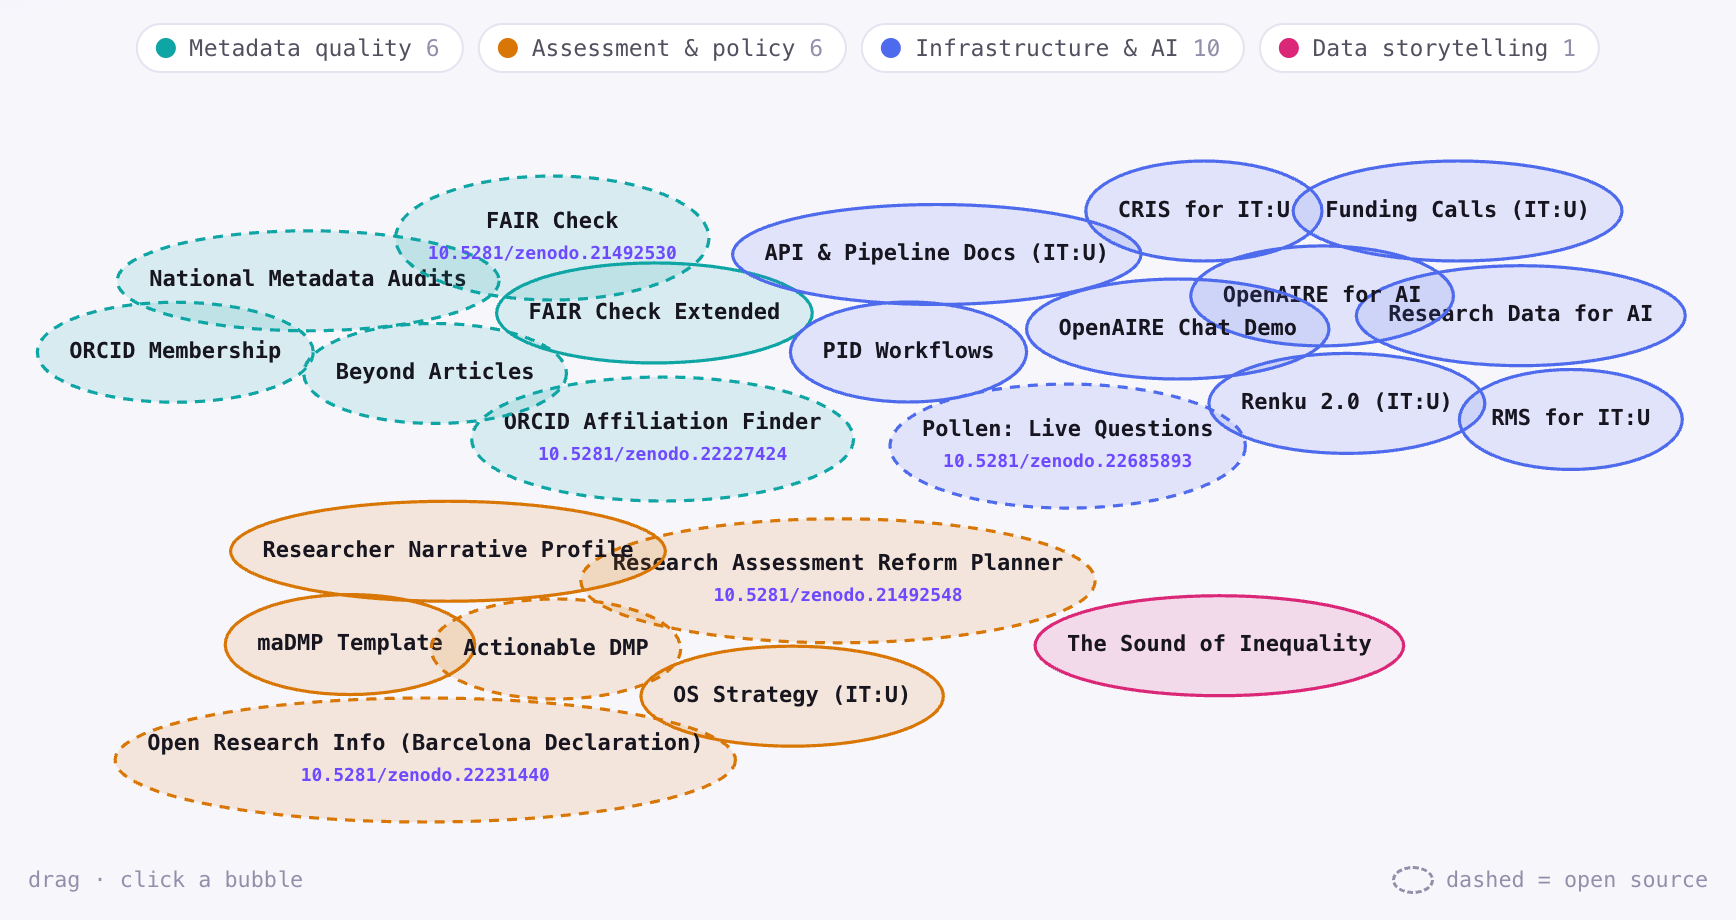
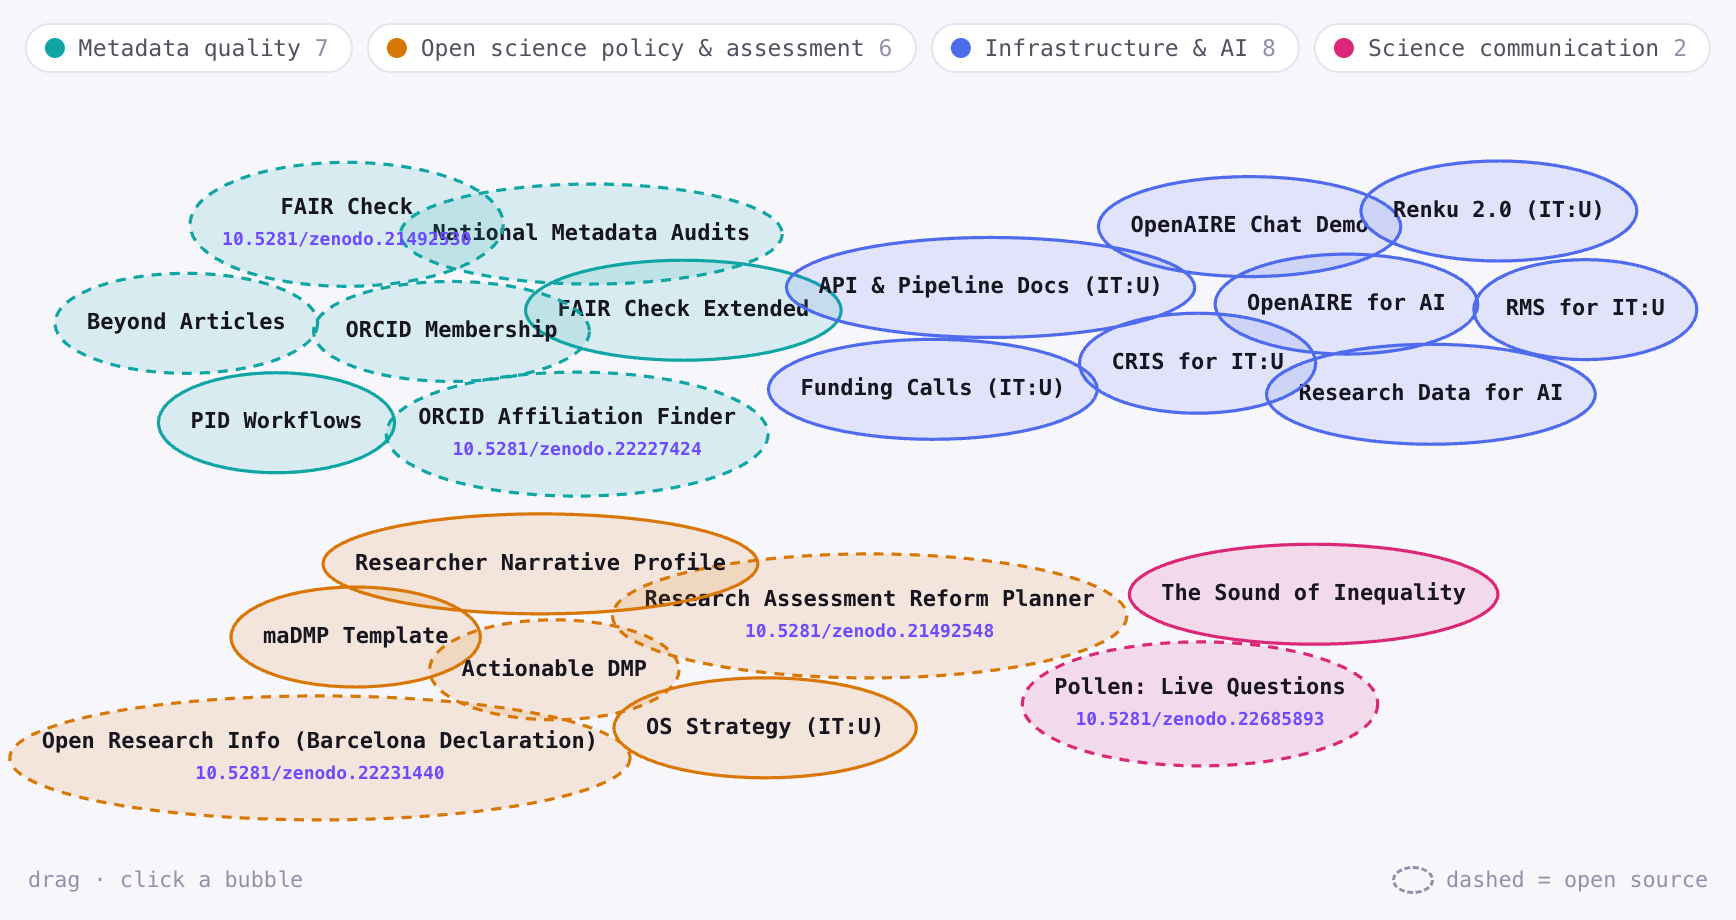
Topics: Open science policy & assessment; Science communication holds Pollen and The Sound of Inequality; PID Workflows under metadata quality. The rail no longer says it is a curated view of the CV data

Changed region(s): [[0.0, 0.1522, 0.9954, 0.913], [0.0311, 0.0304, 0.9643, 0.0609], [0.8088, 0.1522, 0.9021, 0.1826]]

diff --git a/hub.js b/hub.js
@@ -31,26 +31,26 @@ const TAB_GROUPS={
 };
 const TOPICS = {
   metadata:{v:"--t-metadata", en:"Metadata quality", de:"Metadatenqualität", es:"Calidad de metadatos"},
-  assessment:{v:"--t-assessment", en:"Assessment & policy", de:"Bewertung & Forschungspolitik", es:"Evaluación y política"},
+  assessment:{v:"--t-assessment", en:"Open science policy & assessment", de:"Open-Science-Politik & Bewertung", es:"Política de ciencia abierta y evaluación"},
   infra:{v:"--t-infra", en:"Infrastructure & AI", de:"Infrastruktur & KI", es:"Infraestructura e IA"},
-  story:{v:"--t-story", en:"Data storytelling", de:"Daten-Storytelling", es:"Narrativa de datos"},
+  story:{v:"--t-story", en:"Science communication", de:"Wissenschaftskommunikation", es:"Comunicación científica"},
 };
 const UI = {
   en:{nav_menu:"Menu",nav_close:"Close menu",nav_sections:"Sections",cv:"Full CV →", apps_h:"Tools & experiments", apps_lead:"Tools and projects, grouped by topic. Drag them around; click one for its description and, where there is one, its link.",
     grp_out_h:"Publications & talks", grp_path_h:"Background",
     hint:"drag · click a bubble", openmark:"dashed = open source", 
     by:"Built by", lic:"MIT-licensed, open source", src:"Source on GitHub",
-    built:"A curated view of the same data behind the CV", open:"Open", nolink:"No public URL", list:"List", cloud:"Cloud"},
+    open:"Open", nolink:"No public URL", list:"List", cloud:"Cloud"},
   de:{nav_menu:"Menü",nav_close:"Menü schließen",nav_sections:"Abschnitte",cv:"Vollständiger Lebenslauf →", apps_h:"Werkzeuge & Experimente", apps_lead:"Werkzeuge und Projekte, nach Thema gruppiert. Ziehen; anklicken für Beschreibung und, falls vorhanden, Link.",
     grp_out_h:"Publikationen & Vorträge", grp_path_h:"Werdegang",
     hint:"ziehen · Blase anklicken", openmark:"gestrichelt = quelloffen", 
     by:"Erstellt von", lic:"MIT-Lizenz, quelloffen", src:"Quellcode auf GitHub",
-    built:"Eine kuratierte Ansicht derselben CV-Daten", open:"Öffnen", nolink:"Keine öffentliche URL", list:"Liste", cloud:"Wolke"},
+    open:"Öffnen", nolink:"Keine öffentliche URL", list:"Liste", cloud:"Wolke"},
   es:{nav_menu:"Menú",nav_close:"Cerrar menú",nav_sections:"Secciones",cv:"CV completo →", apps_h:"Herramientas y experimentos", apps_lead:"Herramientas y proyectos, agrupados por tema. Arrástralos; haz clic en uno para ver su descripción y, si lo tiene, su enlace.",
     grp_out_h:"Publicaciones y charlas", grp_path_h:"Trayectoria",
     hint:"arrastra · haz clic en una burbuja", openmark:"discontinuo = código abierto", 
     by:"Hecho por", lic:"Licencia MIT, código abierto", src:"Código en GitHub",
-    built:"Una vista curada de los mismos datos del CV", open:"Abrir", nolink:"Sin URL pública", list:"Lista", cloud:"Nube"},
+    open:"Abrir", nolink:"Sin URL pública", list:"Lista", cloud:"Nube"},
 };
 
 let lang="en", activeTopic=null, selected=null, isList=false;

diff --git a/index.html b/index.html
@@ -40,8 +40,7 @@ works only as a response header, and GitHub Pages sends none. -->
     <div class="rail-foot">
       <span data-t="by"></span> <span data-p="name"></span><br>
       <span data-t="lic"></span><br>
-      <a href="https://github.com/rijdho/rijdho.github.io" data-t="src"></a><br>
-      <span data-t="built"></span>
+      <a href="https://github.com/rijdho/rijdho.github.io" data-t="src"></a>
     </div>
   </aside>
   <button class="rail-backdrop" id="rail_backdrop" aria-label="Close menu" tabindex="-1"></button>
@@ -113,4 +112,4 @@ works only as a response header, and GitHub Pages sends none. -->
   </div>
 </div>
 
-<script src="./hub.js?v=16"></script>
+<script src="./hub.js?v=17"></script>

diff --git a/README.md b/README.md
@@ -13,8 +13,8 @@ from this origin.
 Available in **English, German and Spanish** (auto-detected, switchable): interface and
 content both, including every long description.
 
-![The tool cloud: 23 ovals grouped into four colour-coded topics, Metadata quality 6,
-Assessment & policy 6, Infrastructure & AI 10, Data storytelling 1. Related projects touch
+![The tool cloud: 23 ovals grouped into four colour-coded topics, Metadata quality 7,
+Open science policy & assessment 6, Infrastructure & AI 8, Science communication 2. Related projects touch
 rather than repel, so FAIR Metadata Check (Extended) sits against FAIR Metadata Check. A dashed outline marks a
 tool whose source is public on GitHub, and a note in the corner says so. Five ovals carry a Zenodo concept DOI
 under the name: FAIR Metadata Check 10.5281/zenodo.21492530, ORCID Affiliation Finder
